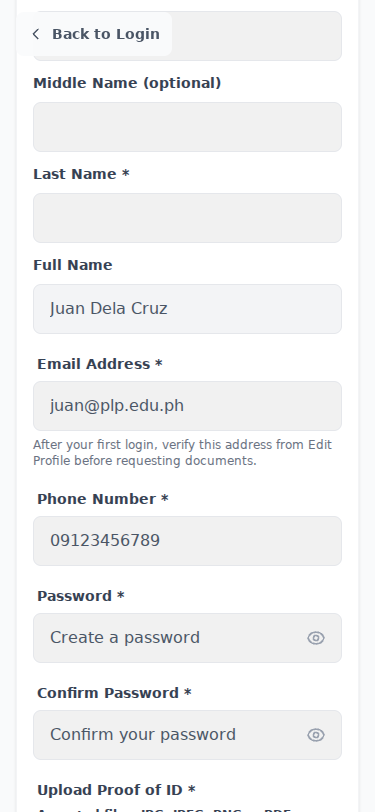
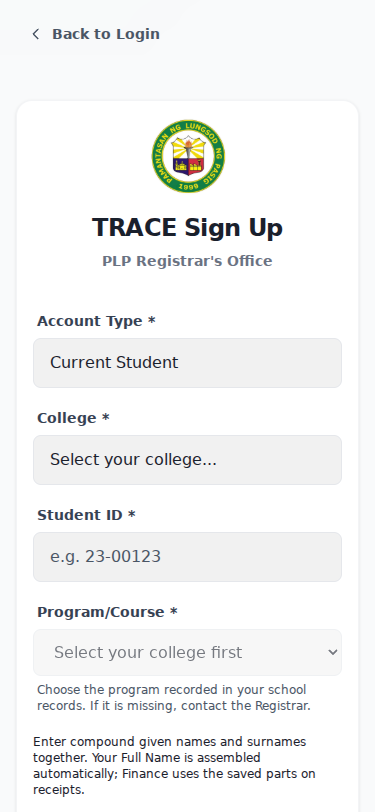
fix: make signup back navigation transparent and scroll on mobile

diff --git a/frontend/src/pages/SignupPage.jsx b/frontend/src/pages/SignupPage.jsx
@@ -155,8 +155,8 @@ export default function SignupPage() {
         <div className="absolute bottom-[-10%] right-[-5%] w-[30vw] h-[30vw] rounded-full bg-blue-500/5 dark:bg-blue-500/5 blur-[100px]"></div>
       </div>
 
-      <header className="pointer-events-none sticky top-0 z-30 w-full bg-transparent px-4 pb-3 pt-[max(0.75rem,env(safe-area-inset-top))] sm:px-6">
-        <Link to="/" className="trace-action pointer-events-auto inline-flex min-h-11 items-center gap-2 rounded-lg bg-gray-50/95 px-3 py-2 text-sm font-semibold text-gray-600 hover:text-gray-900 dark:bg-gray-800/95 dark:text-gray-300 dark:hover:text-gray-100">
+      <header className="pointer-events-none relative top-0 z-30 w-full bg-transparent px-4 pb-3 pt-[max(0.75rem,env(safe-area-inset-top))] sm:px-6 md:sticky">
+        <Link to="/" className="trace-action pointer-events-auto inline-flex min-h-11 items-center gap-2 rounded-lg bg-transparent px-3 py-2 text-sm font-semibold text-gray-600 hover:text-gray-900 dark:text-gray-300 dark:hover:text-gray-100">
           <svg className="w-4 h-4 shrink-0" fill="none" stroke="currentColor" viewBox="0 0 24 24" strokeWidth={2}><path strokeLinecap="round" strokeLinejoin="round" d="M15 19l-7-7 7-7" /></svg>
           Back to Login
         </Link>

diff --git a/docs/UI_CONVENTIONS.md b/docs/UI_CONVENTIONS.md
@@ -288,6 +288,6 @@ The additional staff workspace follows the main Figma messaging frame (260:3301)
 
 ## Signup back navigation — October 15, 2026
 
-Back to Login sits at the viewport’s upper-left edge rather than aligning with the centered form card. Its sticky container is transparent and borderless; only the link has a quiet page-colored surface to keep it readable above scrolling content. Retain the safe-area top inset, a minimum 44 px hit target and light/dark colors. The transparent container passes pointer events through to the form; the link remains clickable. Do not constrain this header to the card’s maximum width.
+Back to Login sits at the viewport’s upper-left edge rather than aligning with the centered form card. Both the header and link have transparent backgrounds with no bar border. Below 768 px the header stays in normal document flow and scrolls away; at 768 px and above it remains sticky. Retain the safe-area top inset, a minimum 44 px hit target and light/dark colors. The transparent container passes pointer events through to the form; the link remains clickable. Do not constrain this header to the card’s maximum width.
 
-Validation: 17 existing registration/branding tests, lint, production/PWA build and whitespace checks pass. 65 browser checks cover student/alumni signup at top/bottom, 320/375/768/1440 px, 100/200% text and both themes, plus Back to Login navigation. Screenshots use synthetic catalog data: [desktop](signup-header-desktop-review.png), [scrolled mobile](signup-header-mobile-review.png). No backend, database or validation changes.
+Validation: 17 existing registration/branding tests, lint, production/PWA build and whitespace checks pass. 65 browser checks cover student/alumni signup at top/bottom, 320/375/768/1440 px, 100/200% text and both themes, including transparent header/link backgrounds, mobile scroll-away behavior, desktop sticky positioning and Back to Login navigation. Screenshots use synthetic catalog data: [desktop](signup-header-desktop-review.png), [mobile](signup-header-mobile-review.png). No backend, database or validation changes.
